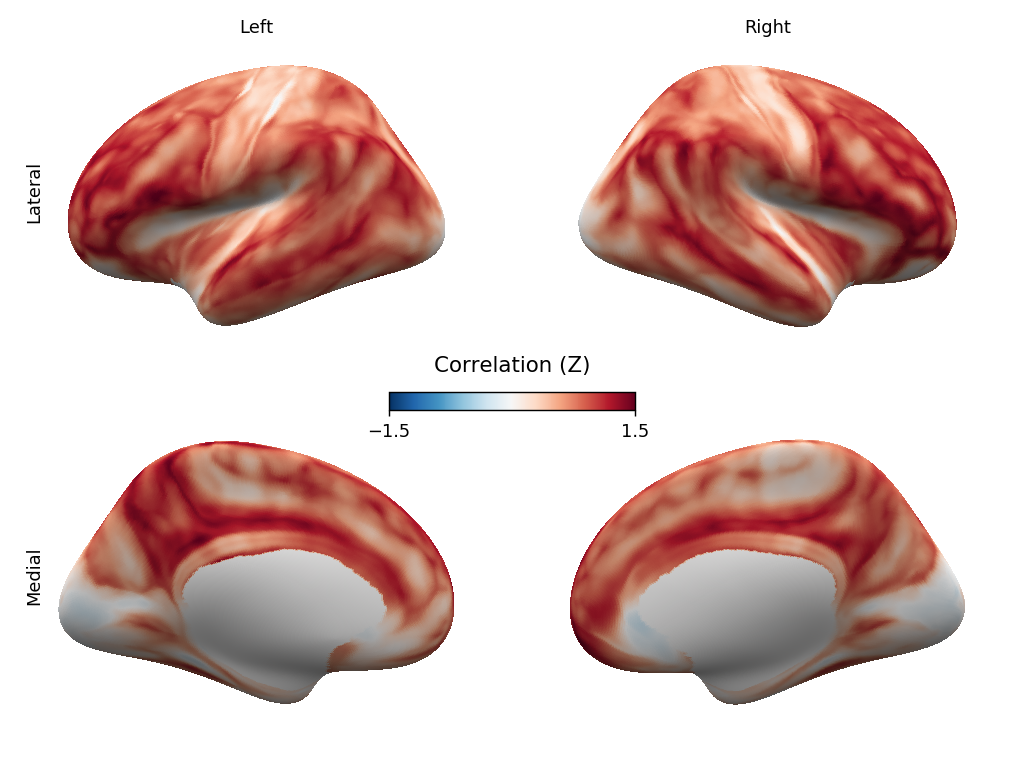
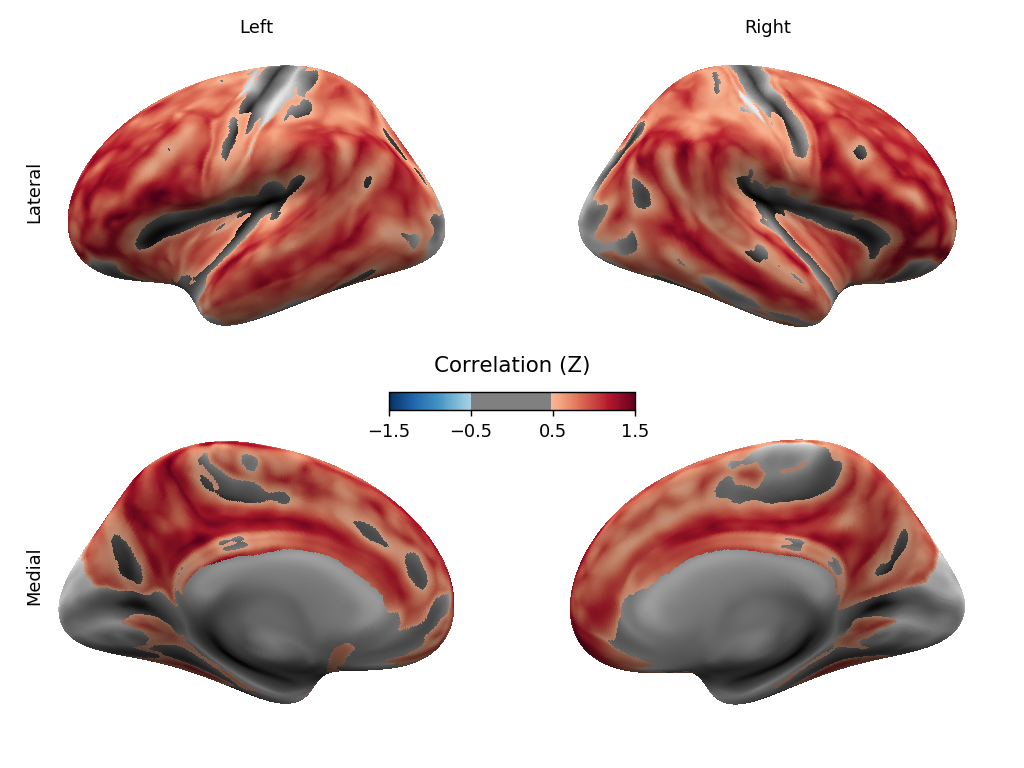
thresholding now works well with sulcal maps

diff --git a/brain4views.py b/brain4views.py
@@ -158,7 +158,7 @@ def plot_surf4(meshes, overlays=None,
         else:
             mask = np.zeros(vertices.shape[0]).astype(bool)
             cortex = surface.load_surf_data(ctx_masks[m])
-            mask[cortex] = 1
+            mask[cortex] = 1  # cortical vertice = 1
 
         ##################################
         # read sulcal map if provided
@@ -169,56 +169,57 @@ def plot_surf4(meshes, overlays=None,
             if sulc.shape[0] != vertices.shape[0]:
                 raise ValueError('The sulcal map does not have the same '
                                  'number of vertices as the mesh.')
-            sulc[mask] = np.min(sulc)
 
         sulc_faces = np.mean(sulc[faces], axis=1)
         if sulc_faces.min() != sulc_faces.max():
             sulc_faces = sulc_faces - sulc_faces.min()
             sulc_faces = sulc_faces / sulc_faces.max()
 
-        # assign greyscale colormap to sulcal map faces
-        face_colors = plt.get_cmap('Greys')(sulc_faces)
-
         ##################################
         # read overlay map if provided
         if overlays is not None:
             overlay = surface.load_surf_data(overlays[m])
-        if len(overlay.shape) is not 1:
-            raise ValueError('overlay can only have one dimension but has'
-                             '%i dimensions' % len(overlay.shape))
-        if overlay.shape[0] != vertices.shape[0]:
-            raise ValueError('The overlay does not have the same number '
-                             'of vertices as the mesh.')
+            if len(overlay.shape) is not 1:
+                raise ValueError('overlay can only have one dimension '
+                                 ' but has %i dimensions' % len(overlay.shape))
+            if overlay.shape[0] != vertices.shape[0]:
+                raise ValueError('The overlay does not have the same number '
+                                 'of vertices as the mesh.')
 
         ##################################
-        # create face values from vertex values by selected avg methods
-        if avg_method == 'mean':
-            overlay_faces = np.mean(overlay[faces], axis=1)
-        elif avg_method == 'median':
-            overlay_faces = np.median(overlay[faces], axis=1)
+        # assign greyscale colormap to sulcal map faces
+        face_colors = plt.get_cmap('Greys')(sulc_faces)
 
-        # Keep only indices within cortical mask
+        # Get indices of faces within the cortex
         if ctx_masks is None:
-            kept_indices = np.arange(overlay_faces.shape[0])
+            kept_indices = np.arange(sulc_faces.shape[0])
         else:
             mask_faces = np.median(mask[faces], axis=1)
-            kept_indices = np.where(mask[faces] >= 0.5)[0]
+            kept_indices = np.where(mask_faces >= 0.5)[0]
 
-        # if no vmin/vmax are passed figure them out from the data
-        if vmin is None:
-            vmin = np.nanmin(overlay_faces)
-        if vmax is None:
-            vmax = np.nanmax(overlay_faces)
+        if overlays is not None:
+            # create face values from vertex values by selected avg methods
+            if avg_method == 'mean':
+                overlay_faces = np.mean(overlay[faces], axis=1)
+            elif avg_method == 'median':
+                overlay_faces = np.median(overlay[faces], axis=1)
 
-        # threshold if indicated
-        if threshold is not None:
-            valid_indices = np.where(np.abs(overlay_faces) >= threshold)[0]
-            kept_indices = [i for i in kept_indices if i in valid_indices]
+            # if no vmin/vmax are passed figure them out from the data
+            if vmin is None:
+                vmin = np.nanmin(overlay_faces)
+            if vmax is None:
+                vmax = np.nanmax(overlay_faces)
 
-        # assign colormap to overlay
-        overlay_faces = overlay_faces - vmin
-        overlay_faces = overlay_faces / (vmax - vmin)
-        face_colors[kept_indices] = cmap(overlay_faces[kept_indices])
+            # threshold if indicated
+            if threshold is not None:
+                valid_indices = np.where(np.abs(overlay_faces) >= threshold)[0]
+                kept_indices = [i for i in kept_indices if i in valid_indices]
+
+            # assign colormap to overlay
+            overlay_faces = overlay_faces - vmin
+            overlay_faces = overlay_faces / (vmax - vmin)
+            face_colors[kept_indices] = cmap(overlay_faces[kept_indices])
+
         face_colors[:, 0] *= intensity
         face_colors[:, 1] *= intensity
         face_colors[:, 2] *= intensity

diff --git a/example_plots.py b/example_plots.py
@@ -15,8 +15,8 @@ surf_dir = '{0}/{1}/surf/'.format(SUBJECTS_DIR, SUBJ)
 label_dir = '{0}/{1}/label/'.format(SUBJECTS_DIR, SUBJ)
 
 # surface meshes (.inflated, .pial, .white etc.)
-lh_surf = surf_dir + 'lh.pial_semi_inflated'
-rh_surf = surf_dir + 'rh.pial_semi_inflated'
+lh_surf = surf_dir + 'lh.inflated'
+rh_surf = surf_dir + 'rh.inflated'
 # sulcal depth maps (.sulc)
 lh_sulc = surf_dir + 'lh.sulc'
 rh_sulc = surf_dir + 'rh.sulc'
@@ -30,7 +30,13 @@ rh_mask = label_dir + 'rh.cortex.label'
 lh_parc = label_dir + 'lh.aparc.a2009s.annot'
 rh_parc = label_dir + 'rh.aparc.a2009s.annot'
 
-'''
+# Plot sulcal map only
+plot_surf4([lh_surf, rh_surf],
+           overlays=None,
+           sulc_maps=[lh_sulc, rh_sulc],
+           ctx_masks=[lh_mask, rh_mask],
+           output_file='human_sulcal_plot.png')
+
 # plot cortical thickness
 plot_surf4([lh_surf, rh_surf],
            overlays=[lh_thick, rh_thick],
@@ -39,24 +45,20 @@ plot_surf4([lh_surf, rh_surf],
            vmin=1, threshold=None, vmax=4,
            cmap='inferno', avg_method='mean',
            title='Cortical thickness (mm)', colorbar=True,
-           output_file='cortical_thickness.png')
+           output_file='human_cortical_thickness.png')
 
 # Plot correlation map
 lh_over = '/home/nsirmpilatze/BS/Meshes/human_maps/BS_Zmap_mean_lh.surf.gii'
 rh_over = '/home/nsirmpilatze/BS/Meshes/human_maps/BS_Zmap_mean_rh.surf.gii'
 
-plot_surf([lh_surf, rh_surf],
-          overlays=[lh_over, rh_over],
-          sulc_maps=None,
-          ctx_masks=[lh_mask, rh_mask],
-          vmin=-1.5, threshold=None, vmax=1.5,
-          cmap='RdBu_r', avg_method='mean',
-          title='Correlation (Z)', colorbar=True,
-          output_file='human_correlation_plot.png')
-
-elapsed = time.time() - start
-print('surfaces rendered in {0:.2f} s'.format(elapsed))
-'''
+plot_surf4([lh_surf, rh_surf],
+           overlays=[lh_over, rh_over],
+           sulc_maps=[lh_sulc, rh_sulc],
+           ctx_masks=[lh_mask, rh_mask],
+           vmin=-1.5, threshold=0.5, vmax=1.5,
+           cmap='RdBu_r', avg_method='mean',
+           title='Correlation (Z)', colorbar=True,
+           output_file='human_correlation_plot.png')
 
 # Plot parcellation
 lh_parc = label_dir + 'lh.aparc.a2009s.annot'
